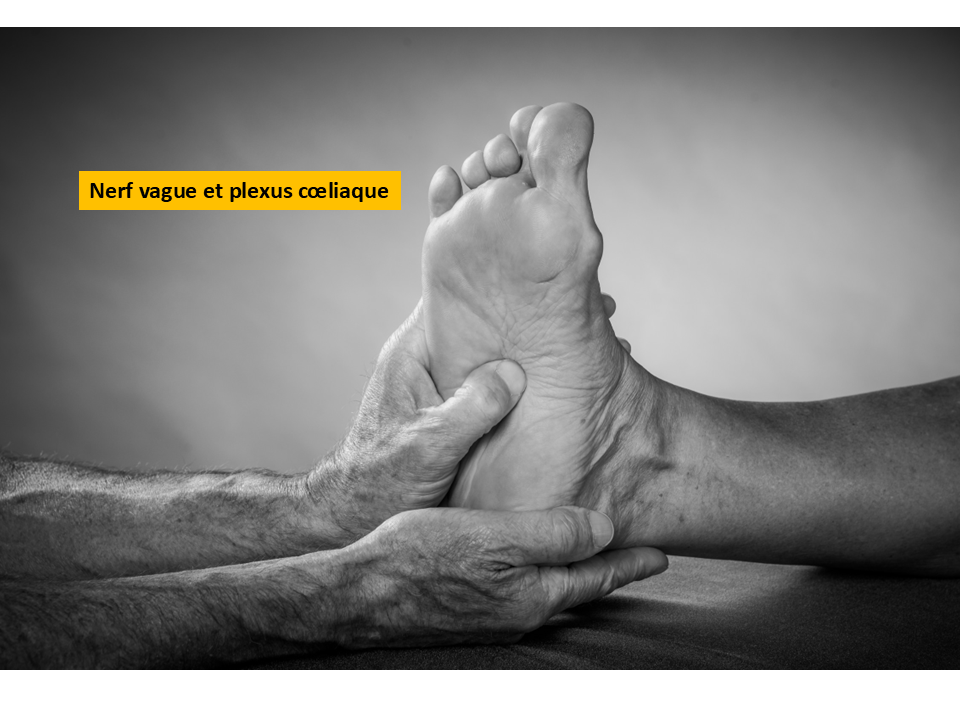
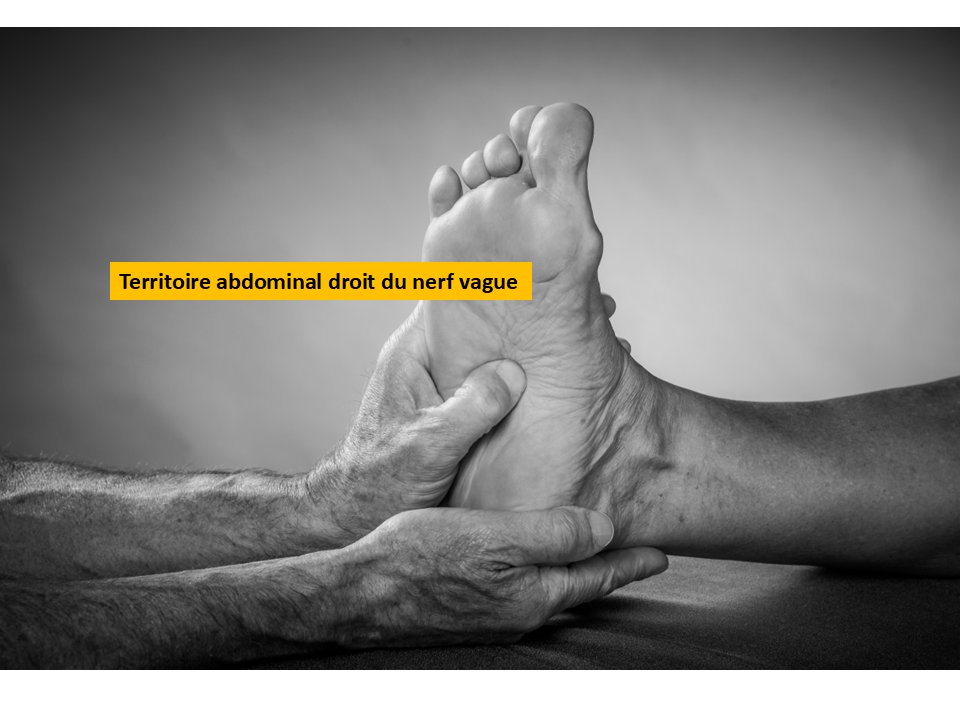
Refine Chapter 4 rework dermalgia slides

Changed region(s): [[0.0625, 0.2139, 0.4375, 0.3056], [0.0938, 0.3667, 0.5625, 0.4278]]

diff --git a/content/chapter4-rework.slidesync.ts b/content/chapter4-rework.slidesync.ts
@@ -37,7 +37,6 @@ export const chapter4ReworkSlides = [
   synthesis(19, 'Intéroception, nociception et douleurs rapportées'),
   synthesis(20, 'Les dermalgies réflexes'),
   // Source Slide 27 is intentionally absent.
-  synthesis(28, 'Intéroception, nociception et douleurs rapportées — application en ROP'),
   synthesis(29, 'Plexus prévertébraux : convergence vagale et sympathique'),
   synthesis(30, 'Le plexus hypogastrique inférieur'),
   synthesis(31, 'Fonctions pelviennes : contrôle autonome et somatique'),
@@ -89,47 +88,52 @@ export const chapter4ReworkSlideAnchors = [
   { sectionId: 'sympathique-viscero-moteur', blockIndex: 24, slide: 23 },
   { sectionId: 'sympathique-viscero-moteur', blockIndex: 32, slide: 24 },
   { sectionId: 'sympathique-somato-viscero-sensitif', blockIndex: -1, slide: 25 },
-  { sectionId: 'sympathique-somato-viscero-sensitif', blockIndex: 3, slide: 26 },
-  { sectionId: 'sympathique-somato-viscero-sensitif', blockIndex: 5, slide: 27 },
-  { sectionId: 'chaine-plexique-prevertebrale-ou-pre-aortique', blockIndex: 3, slide: 28 },
-  { sectionId: 'plexus-previsceral-pelvien', blockIndex: -1, slide: 29 },
-  { sectionId: 'plexus-previsceral-pelvien', blockIndex: 2, slide: 30 },
-  { sectionId: 'systeme-nerveux-intrinseque-ou-enterique-sne', blockIndex: -1, slide: 31 },
-  { sectionId: 'glandes-surrenales', blockIndex: -1, slide: 32 },
-  { sectionId: 'glandes-surrenales', blockIndex: 6, slide: 33, ...endAt('glandes-surrenales', 8) },
-  { sectionId: 'zones-reflexes-podales', blockIndex: -1, slide: 34 },
+  {
+    sectionId: 'sympathique-somato-viscero-sensitif',
+    blockIndex: 7,
+    slide: 26,
+    ...endAt('chaine-plexique-prevertebrale-ou-pre-aortique', -1),
+  },
+  { sectionId: 'chaine-plexique-prevertebrale-ou-pre-aortique', blockIndex: 3, slide: 27 },
+  { sectionId: 'plexus-previsceral-pelvien', blockIndex: -1, slide: 28 },
+  { sectionId: 'plexus-previsceral-pelvien', blockIndex: 2, slide: 29 },
+  { sectionId: 'systeme-nerveux-intrinseque-ou-enterique-sne', blockIndex: -1, slide: 30 },
+  { sectionId: 'glandes-surrenales', blockIndex: -1, slide: 31 },
+  { sectionId: 'glandes-surrenales', blockIndex: 6, slide: 32, ...endAt('glandes-surrenales', 8) },
+  { sectionId: 'zones-reflexes-podales', blockIndex: -1, slide: 33 },
   {
     sectionId: 'zones-reflexes-podales',
     blockIndex: 1,
-    slide: 35,
+    slide: 34,
     end: { sectionId: 'zones-reflexes-podales', blockIndex: 1, itemIndex: 8 },
   },
-  { sectionId: 'zones-reflexes-podales', blockIndex: 3, slide: 36, ...endAt('zones-reflexes-podales', 6) },
-  { sectionId: 'zones-reflexes-podales', blockIndex: 6, slide: 37, ...endAt('zones-reflexes-podales', 7) },
+  { sectionId: 'zones-reflexes-podales', blockIndex: 3, slide: 35, ...endAt('zones-reflexes-podales', 6) },
+  { sectionId: 'zones-reflexes-podales', blockIndex: 6, slide: 36, ...endAt('zones-reflexes-podales', 7) },
   {
     sectionId: 'zones-reflexes-podales',
     blockIndex: 9,
     itemIndex: 3,
-    slide: 38,
+    slide: 37,
     ...endAt('zones-reflexes-podales', 11),
   },
   // The left-vagus cartography remains solo until its correct companion photo is available.
-  { sectionId: 'zones-reflexes-podales', blockIndex: 11, slide: 39, ...endAt('zones-reflexes-podales', 14) },
+  { sectionId: 'zones-reflexes-podales', blockIndex: 11, slide: 38, ...endAt('zones-reflexes-podales', 14) },
   // The updated slide-11 photo now accompanies the right-vagus cartography.
-  { sectionId: 'zones-reflexes-podales', blockIndex: 14, slide: 40, ...endAt('zones-reflexes-podales', 15) },
-  { sectionId: 'zones-reflexes-podales', blockIndex: 15, slide: 41, ...endAt('zones-reflexes-podales', 20) },
-  { sectionId: 'zones-reflexes-podales', blockIndex: 20, slide: 42, ...endAt('zones-reflexes-podales', 24) },
-  { sectionId: 'zones-reflexes-podales', blockIndex: 24, slide: 43, ...endAt('zones-reflexes-podales', 27) },
-  { sectionId: 'zones-reflexes-podales', blockIndex: 27, slide: 44, ...endAt('zones-reflexes-podales', 30) },
-  { sectionId: 'zones-reflexes-podales', blockIndex: 30, slide: 45, ...endAt('zones-reflexes-podales', 33) },
-  { sectionId: 'zones-reflexes-podales', blockIndex: 33, slide: 46, ...endAt('zones-reflexes-podales', 37) },
-  { sectionId: 'zones-reflexes-podales', blockIndex: 37, slide: 47, ...endAt('zones-reflexes-podales', 41) },
-  { sectionId: 'zones-reflexes-podales', blockIndex: 41, slide: 48, ...endAt('zones-reflexes-podales', 45) },
-  { sectionId: 'zones-reflexes-podales', blockIndex: 51, slide: 49, ...endAt('zones-reflexes-podales', 54) },
+  { sectionId: 'zones-reflexes-podales', blockIndex: 14, slide: 39, ...endAt('zones-reflexes-podales', 15) },
+  { sectionId: 'zones-reflexes-podales', blockIndex: 15, slide: 40, ...endAt('zones-reflexes-podales', 20) },
+  { sectionId: 'zones-reflexes-podales', blockIndex: 20, slide: 41, ...endAt('zones-reflexes-podales', 24) },
+  { sectionId: 'zones-reflexes-podales', blockIndex: 24, slide: 42, ...endAt('zones-reflexes-podales', 27) },
+  { sectionId: 'zones-reflexes-podales', blockIndex: 27, slide: 43, ...endAt('zones-reflexes-podales', 30) },
+  { sectionId: 'zones-reflexes-podales', blockIndex: 30, slide: 44, ...endAt('zones-reflexes-podales', 33) },
+  { sectionId: 'zones-reflexes-podales', blockIndex: 33, slide: 45, ...endAt('zones-reflexes-podales', 37) },
+  { sectionId: 'zones-reflexes-podales', blockIndex: 37, slide: 46, ...endAt('zones-reflexes-podales', 41) },
+  { sectionId: 'zones-reflexes-podales', blockIndex: 41, slide: 47, ...endAt('zones-reflexes-podales', 45) },
+  { sectionId: 'zones-reflexes-podales', blockIndex: 51, slide: 48, ...endAt('zones-reflexes-podales', 54) },
   // Ends after the paired photo and before 11.16. Système nerveux intrinsèque ou entérique (SNE).
-  { sectionId: 'zones-reflexes-podales', blockIndex: 54, slide: 50, ...endAt('zones-reflexes-podales', 55) },
+  { sectionId: 'zones-reflexes-podales', blockIndex: 54, slide: 49, ...endAt('zones-reflexes-podales', 55) },
 ]
 
 export const chapter4ReworkHalfBreaks = [
+  { sectionId: 'chaine-plexique-prevertebrale-ou-pre-aortique', blockIndex: -1 },
   { sectionId: 'zones-reflexes-podales', blockIndex: 0 },
 ]
